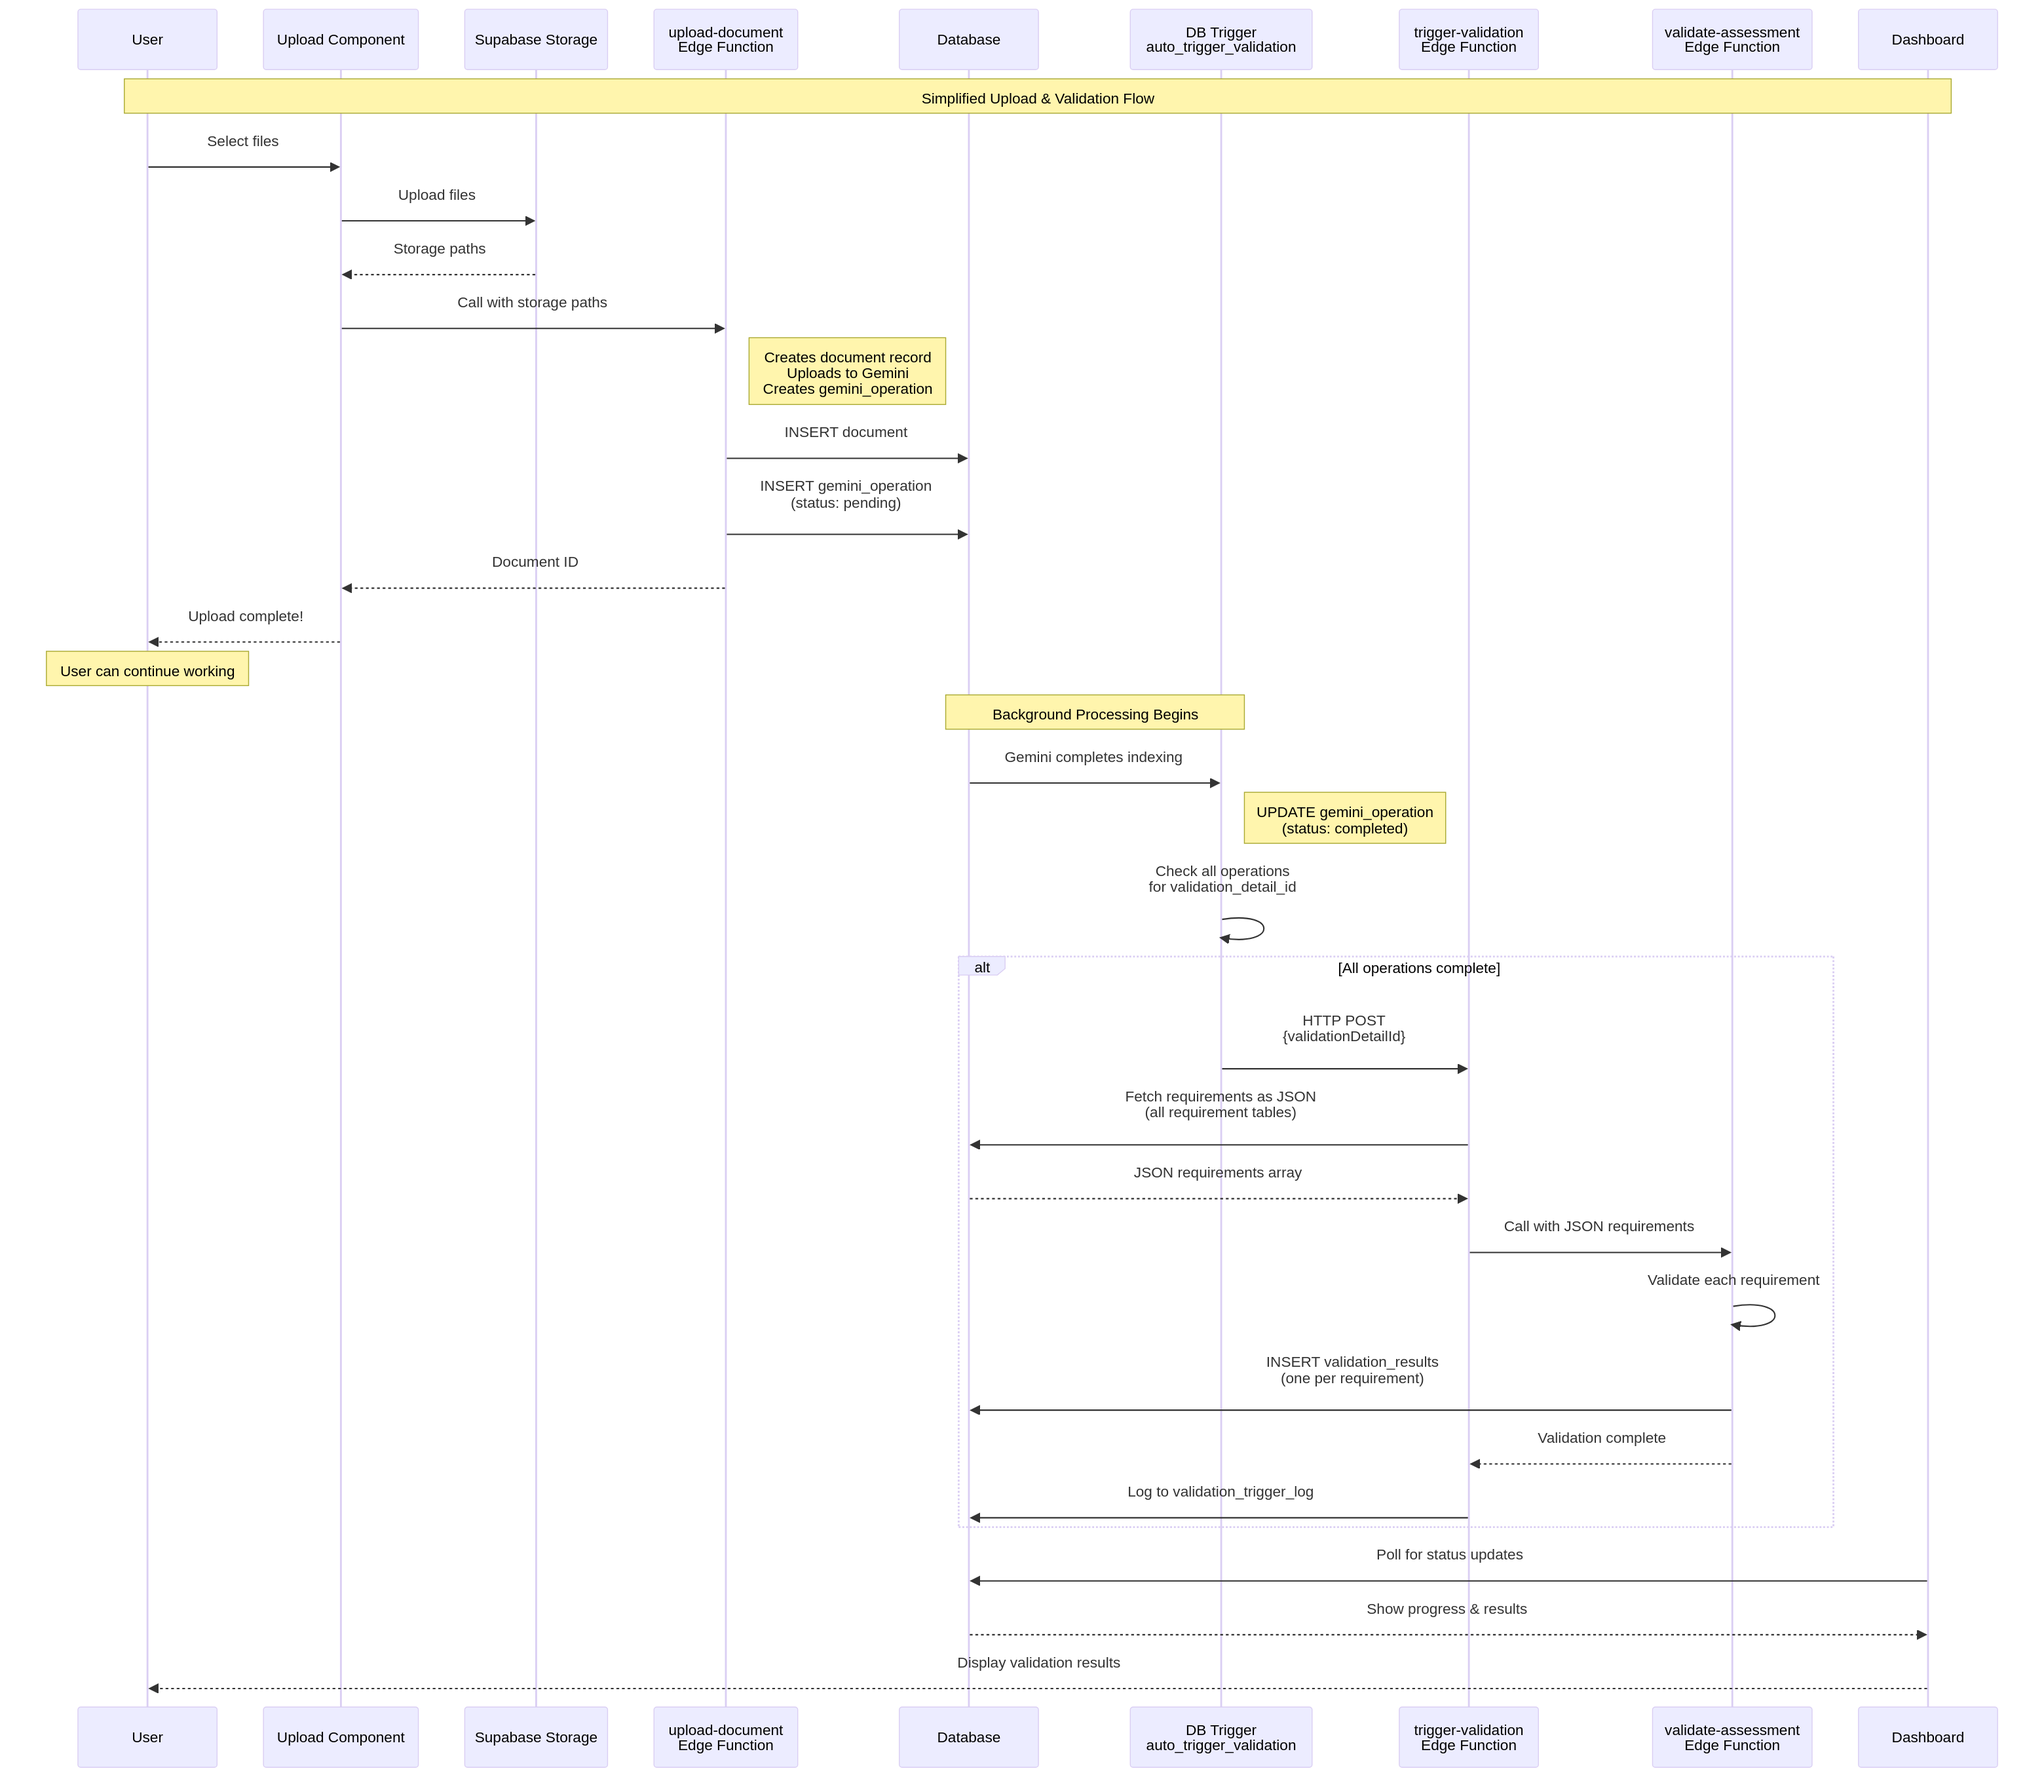
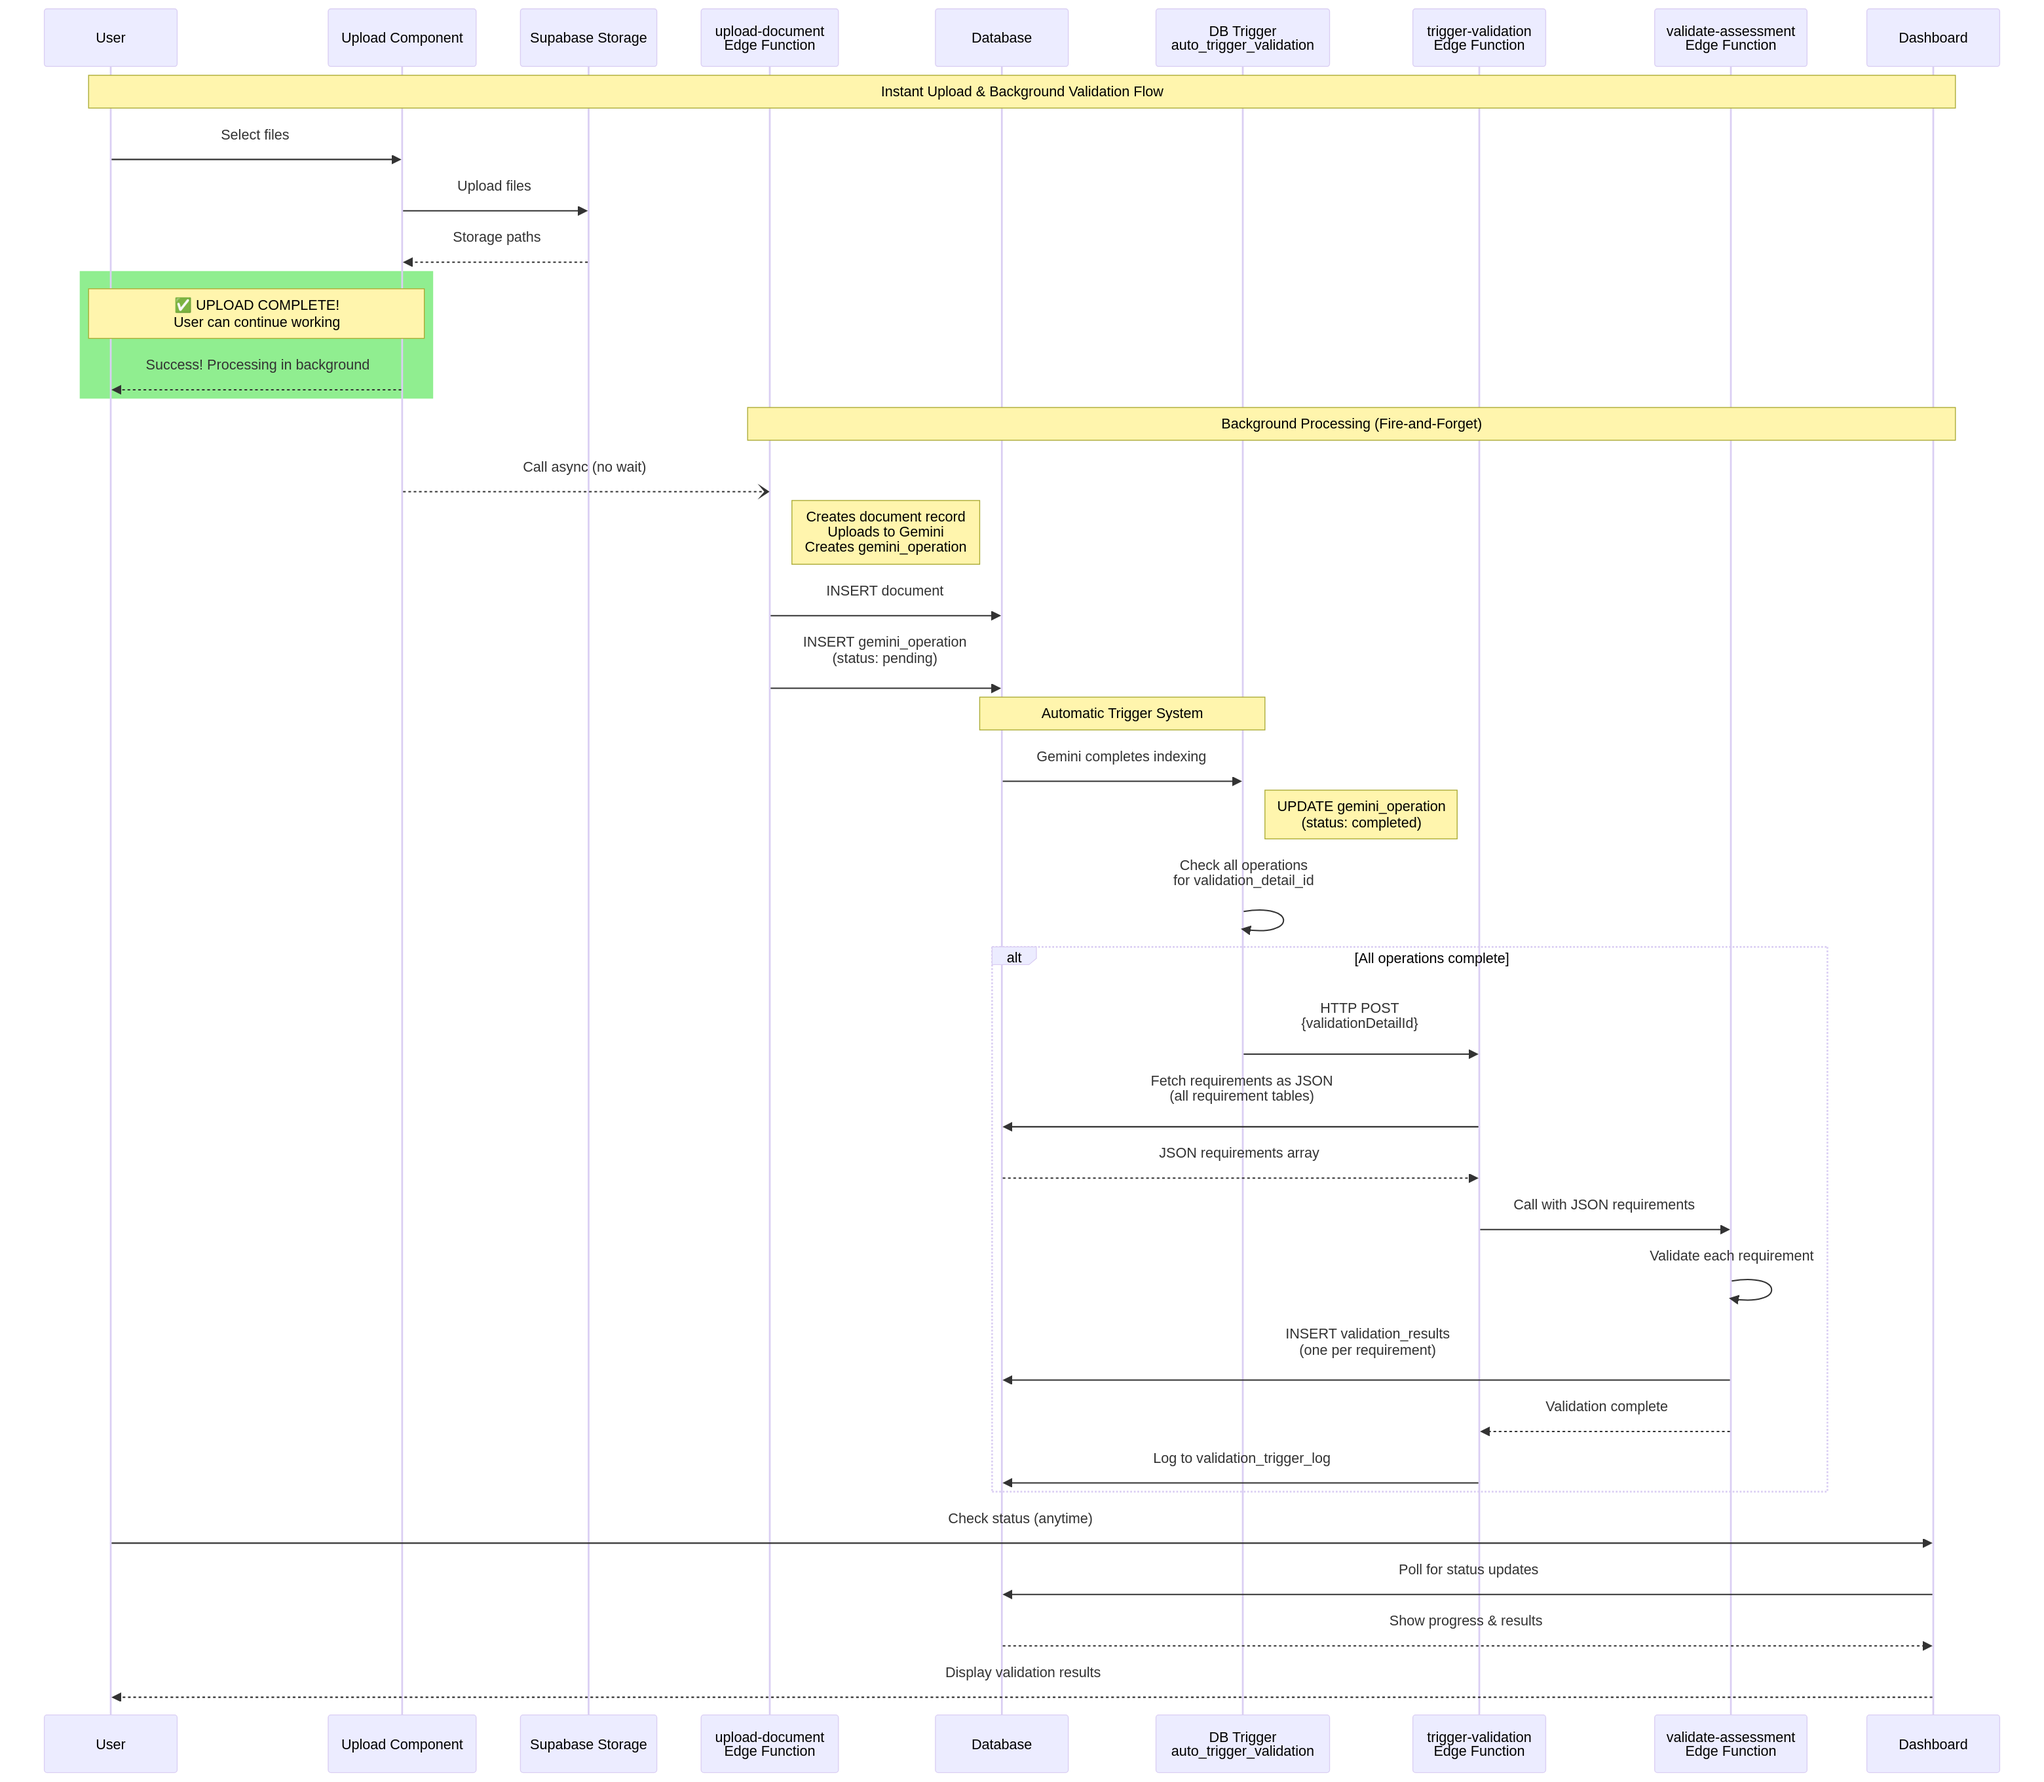
docs: Update README to emphasize instant upload with fire-and-forget pattern
Updated README and diagrams to highlight the instant upload experience
where users can continue working immediately without waiting.

README Changes:
- Changed "Simple 3-Step" to "Instant Upload Process"
- Added step 2: "Continue Working" (close browser, upload more, etc.)
- Updated upload phase to "<1 Second"
- Emphasized "no waiting" and "can close browser"
- Updated background processing to "Fire-and-Forget"
- Added "All happens in background - no user waiting required"
- Updated benefits to include "Instant upload" and "Fire-and-forget"
- Added "Close browser" benefit

Diagram Changes (simplified-upload-flow.mmd):
- Shows user can continue working immediately
- Marked edge function call as async (no wait)
- Separated background processing section
- Added "Fire-and-Forget" label
- Shows user checking Dashboard anytime

Key Messages:
1. Upload completes in <1 second
2. User can continue working immediately
3. Can close browser right away
4. Processing continues in background
5. Check Dashboard anytime for progress

This makes it crystal clear that NytroAI provides an instant,
non-blocking upload experience with reliable background processing.

diff --git a/README.md b/README.md
@@ -94,15 +94,16 @@ Open `http://localhost:5173` in your browser. Done! 🎉
 
 ## 📖 How It Works
 
-### Simple 3-Step Process
+### Instant Upload Process
 
 ```
-Upload Assessment → Background Processing → Get Results
+Upload (Instant) → Background Processing → Get Results
 ```
 
-1. **Upload** - Drag and drop your assessment PDF (completes instantly)
-2. **Automatic Processing** - AI indexes and validates in the background
-3. **Review Results** - Dashboard shows real-time progress and results
+1. **Upload** - Drag and drop your assessment PDF → **Completes in <1 second!**
+2. **Continue Working** - Close browser, upload more files, or check Dashboard
+3. **Automatic Processing** - AI indexes and validates in the background
+4. **Review Results** - Dashboard shows real-time progress and results
 
 ### What Happens Behind the Scenes
 
@@ -110,22 +111,26 @@ Upload Assessment → Background Processing → Get Results
 
 *Complete upload and validation flow showing DB trigger automation*
 
-**Upload Phase (Instant)**
+**Upload Phase (<1 Second)**
 - Files upload to secure storage
-- Document records created
-- You can continue working immediately
+- ✅ **Upload complete!** You can continue working immediately
+- No waiting for processing
+- Can close browser right away
 
-**Background Processing (Automatic)**
+**Background Processing (Automatic - Fire-and-Forget)**
+- Edge function creates document records (async)
 - AI indexes documents with Gemini File Search
 - Database trigger automatically starts validation
 - Requirements fetched as structured JSON
 - Each requirement validated individually
 - Results stored in database
+- **All happens in background - no user waiting required**
 
 **Results (Real-time)**
 - Dashboard polls for status updates
 - See progress as validation completes
-- Export detailed compliance report
+- Check anytime - processing continues even if browser closed
+- Export detailed compliance report when ready
 
 ---
 
@@ -237,11 +242,13 @@ For detailed architecture documentation, see [docs/ARCHITECTURE.md](./docs/ARCHI
    ```
    
    **Benefits:**
-   - ⚡ **Instant** - Validation starts immediately when indexing completes
-   - 📉 **Zero polling** - No frontend API calls needed
+   - ⚡ **Instant upload** - Completes in <1 second, no waiting
+   - 🚀 **Fire-and-forget** - Processing happens in background
+   - 📉 **Zero polling** - No frontend API calls during upload
    - 🔒 **100% reliable** - Database triggers are atomic and guaranteed
    - 🎯 **Zero overhead** - Minimal database impact
    - 🔄 **Automatic retry** - Failed validations can be retried easily
+   - 🚪 **Close browser** - Processing continues even if browser closed
    
    **Technical Details:**
    - Trigger monitors `gemini_operations` table
